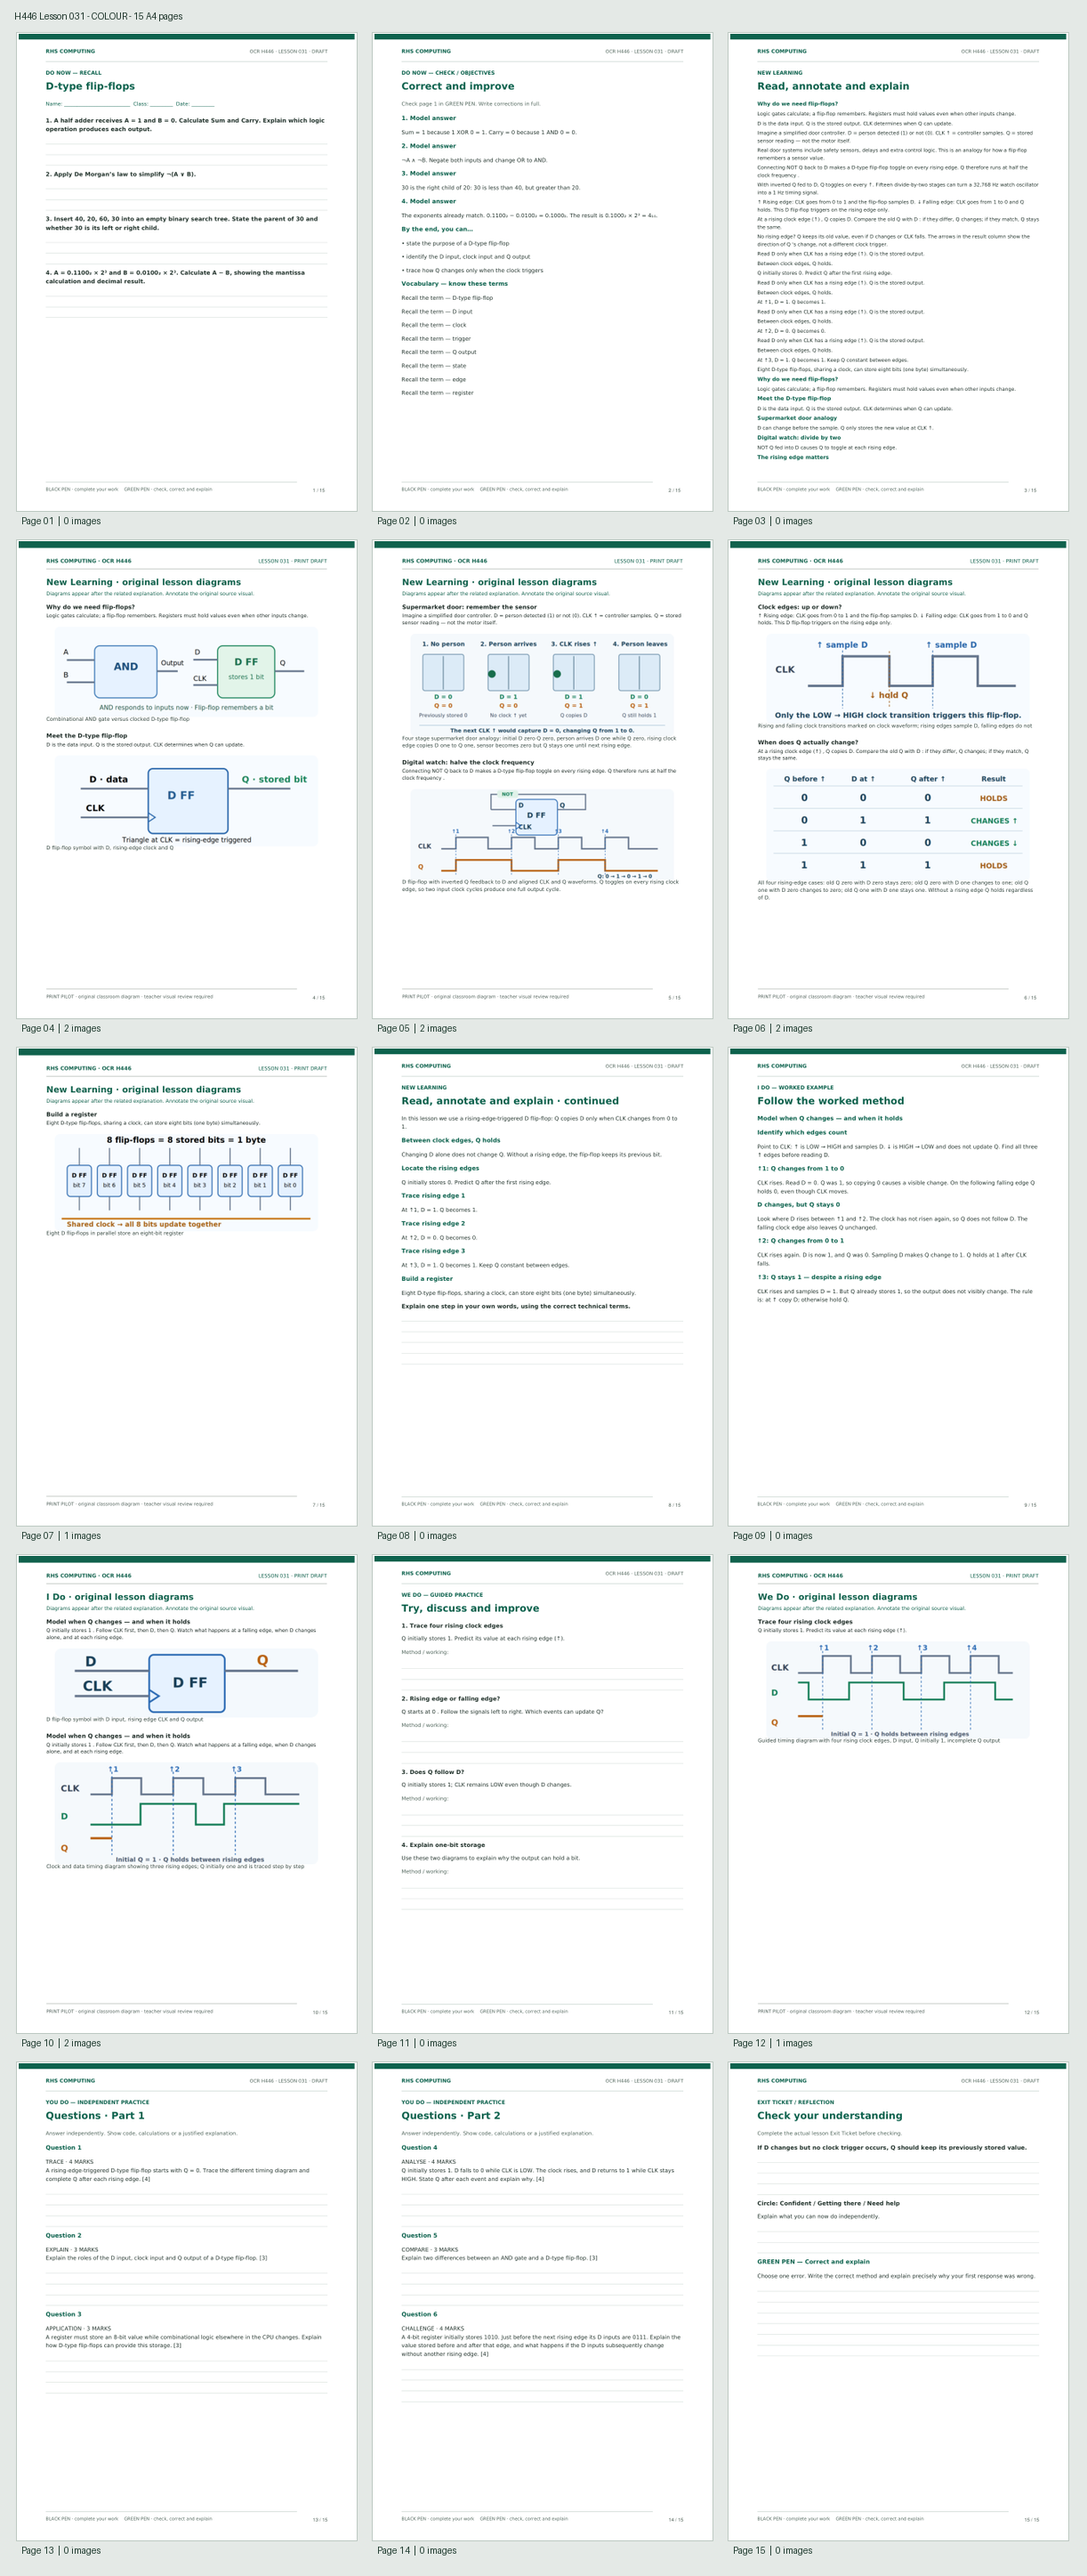
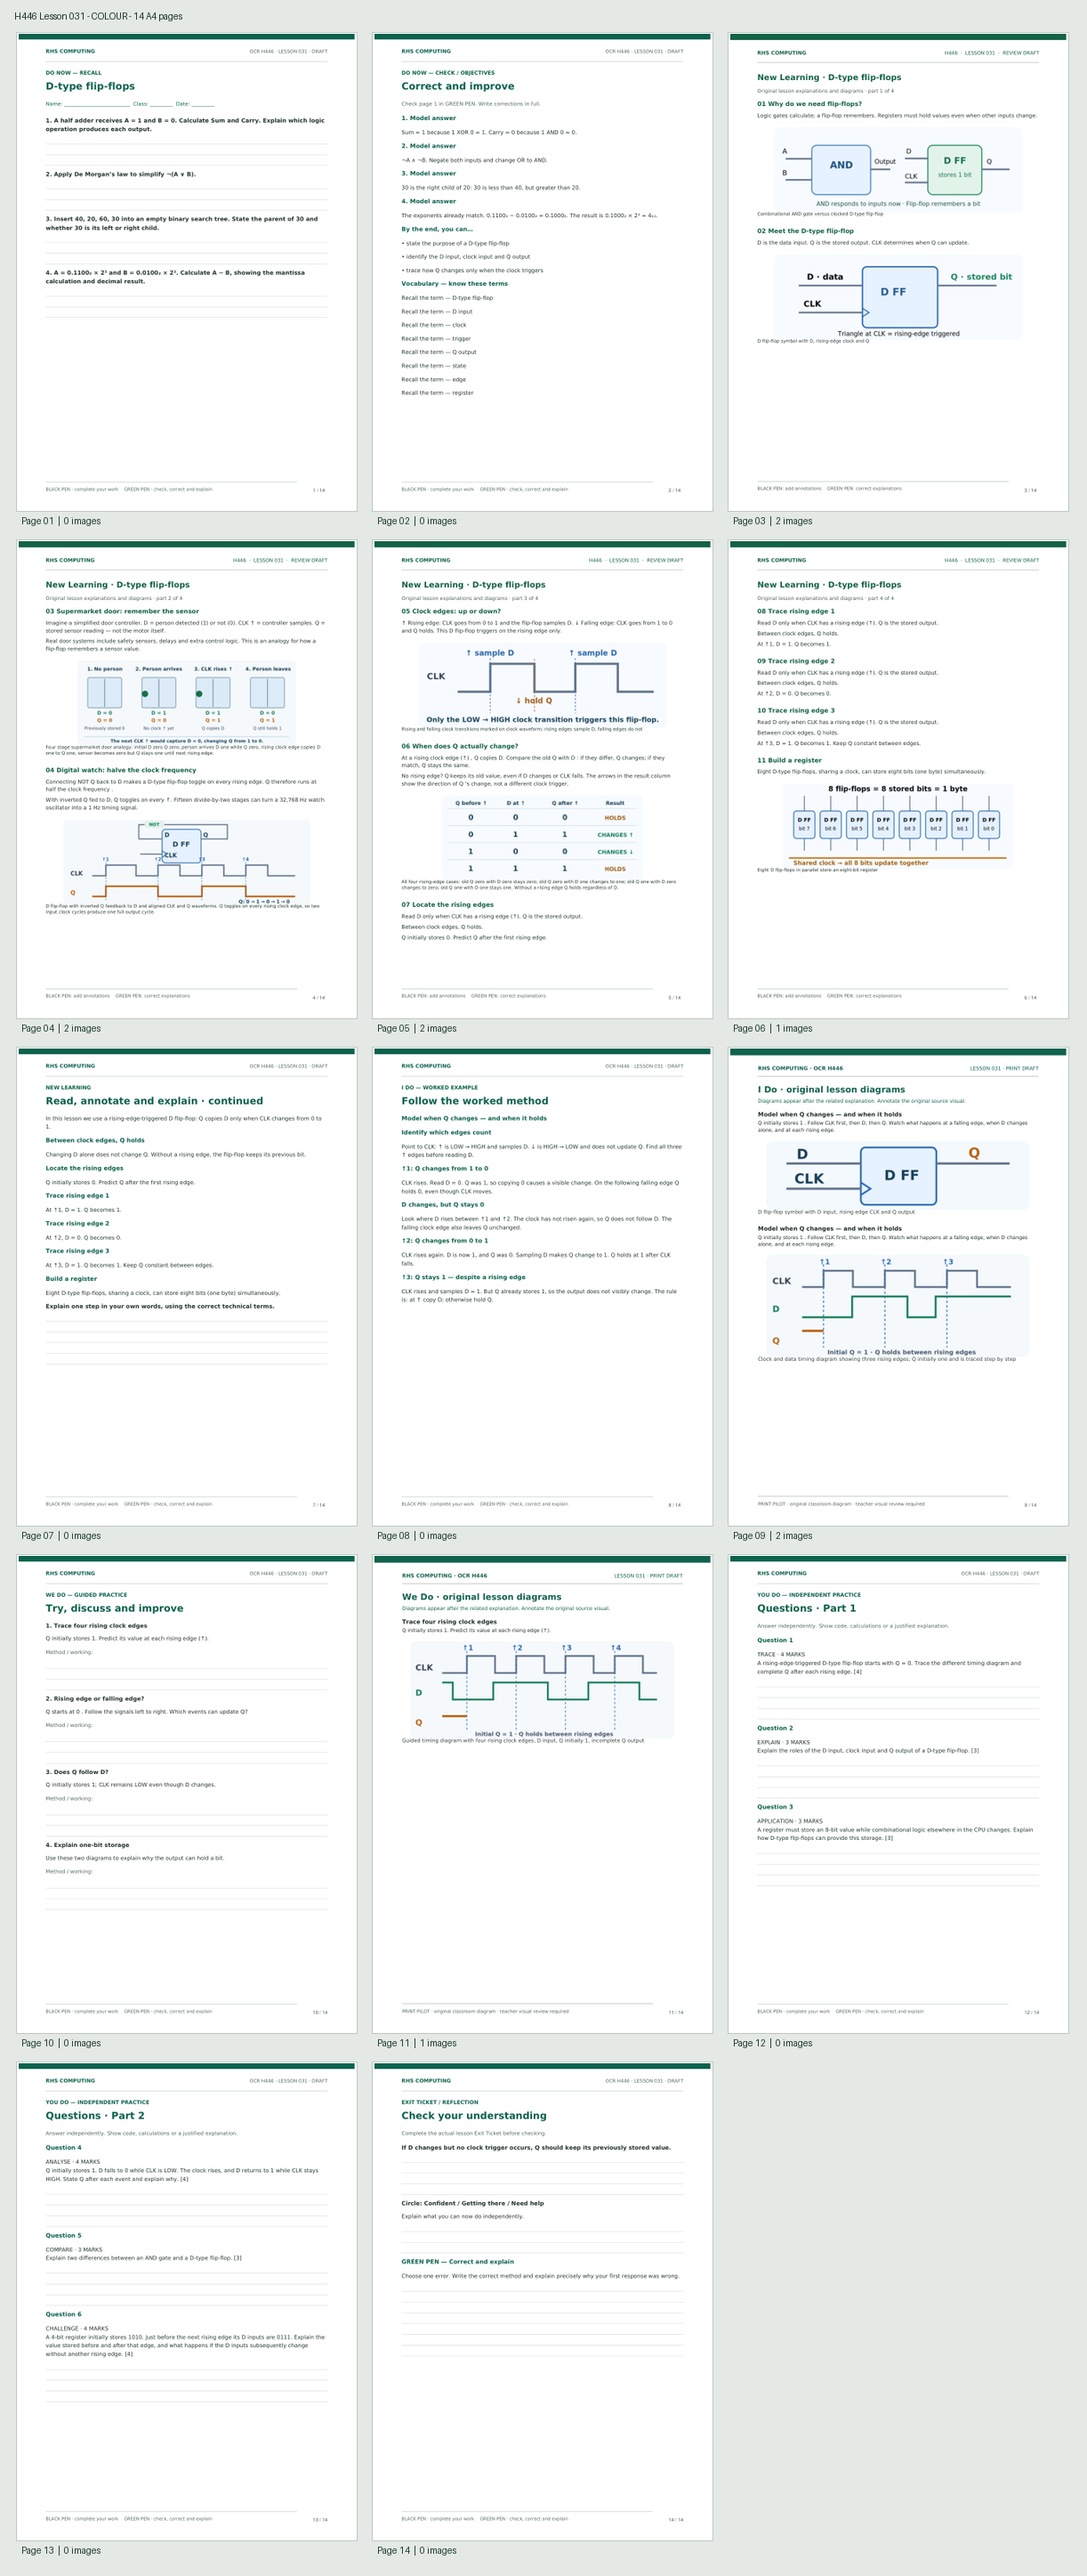
Add rendered-page QA contact sheets for H446 020 and 031

diff --git a/offline/booklets/h446/qa/H446_TWO_PILOT_LAYOUT_AUDIT.md b/offline/booklets/h446/qa/H446_TWO_PILOT_LAYOUT_AUDIT.md
@@ -1,18 +1,19 @@
 # H446 visual print pilot — rendered page QA
 
 Read the contact sheets at 100% before releasing these booklets.
+Lesson 031 uses integrated theory and diagrams (11 learning stages), rather than a dense single theory page.
 
 | Lesson | Edition | Pages | Diagram pages | Text block edge warnings |
 |---|---|---:|---:|---:|
 | 020 | bw | 9 | 1 | 0 |
 | 020 | colour | 9 | 1 | 0 |
-| 031 | bw | 15 | 6 | 0 |
-| 031 | colour | 15 | 6 | 0 |
+| 031 | bw | 14 | 6 | 0 |
+| 031 | colour | 14 | 6 | 0 |
 
 ## Specific teacher review flags
 
 - Lesson 020: no text-dense pages above the 2,000-character threshold.
-- **Lesson 031**: page(s) 3 contain over 2,000 text characters; check font size and consider splitting explanation before classroom delivery.
+- Lesson 031: no text-dense pages above the 2,000-character threshold.
 - Lesson 031 restores ten source diagrams; the remaining interactive or supplementary visual stages require separate review.
 
 **Notes**: Original teaching text and restored source diagrams remain on distinct, phase-adjacent pages. Low nonwhite-ratio or very short text pages should be visually checked. Automated edge-warning counts are conservative because the header/footer approaches the paper edge.
